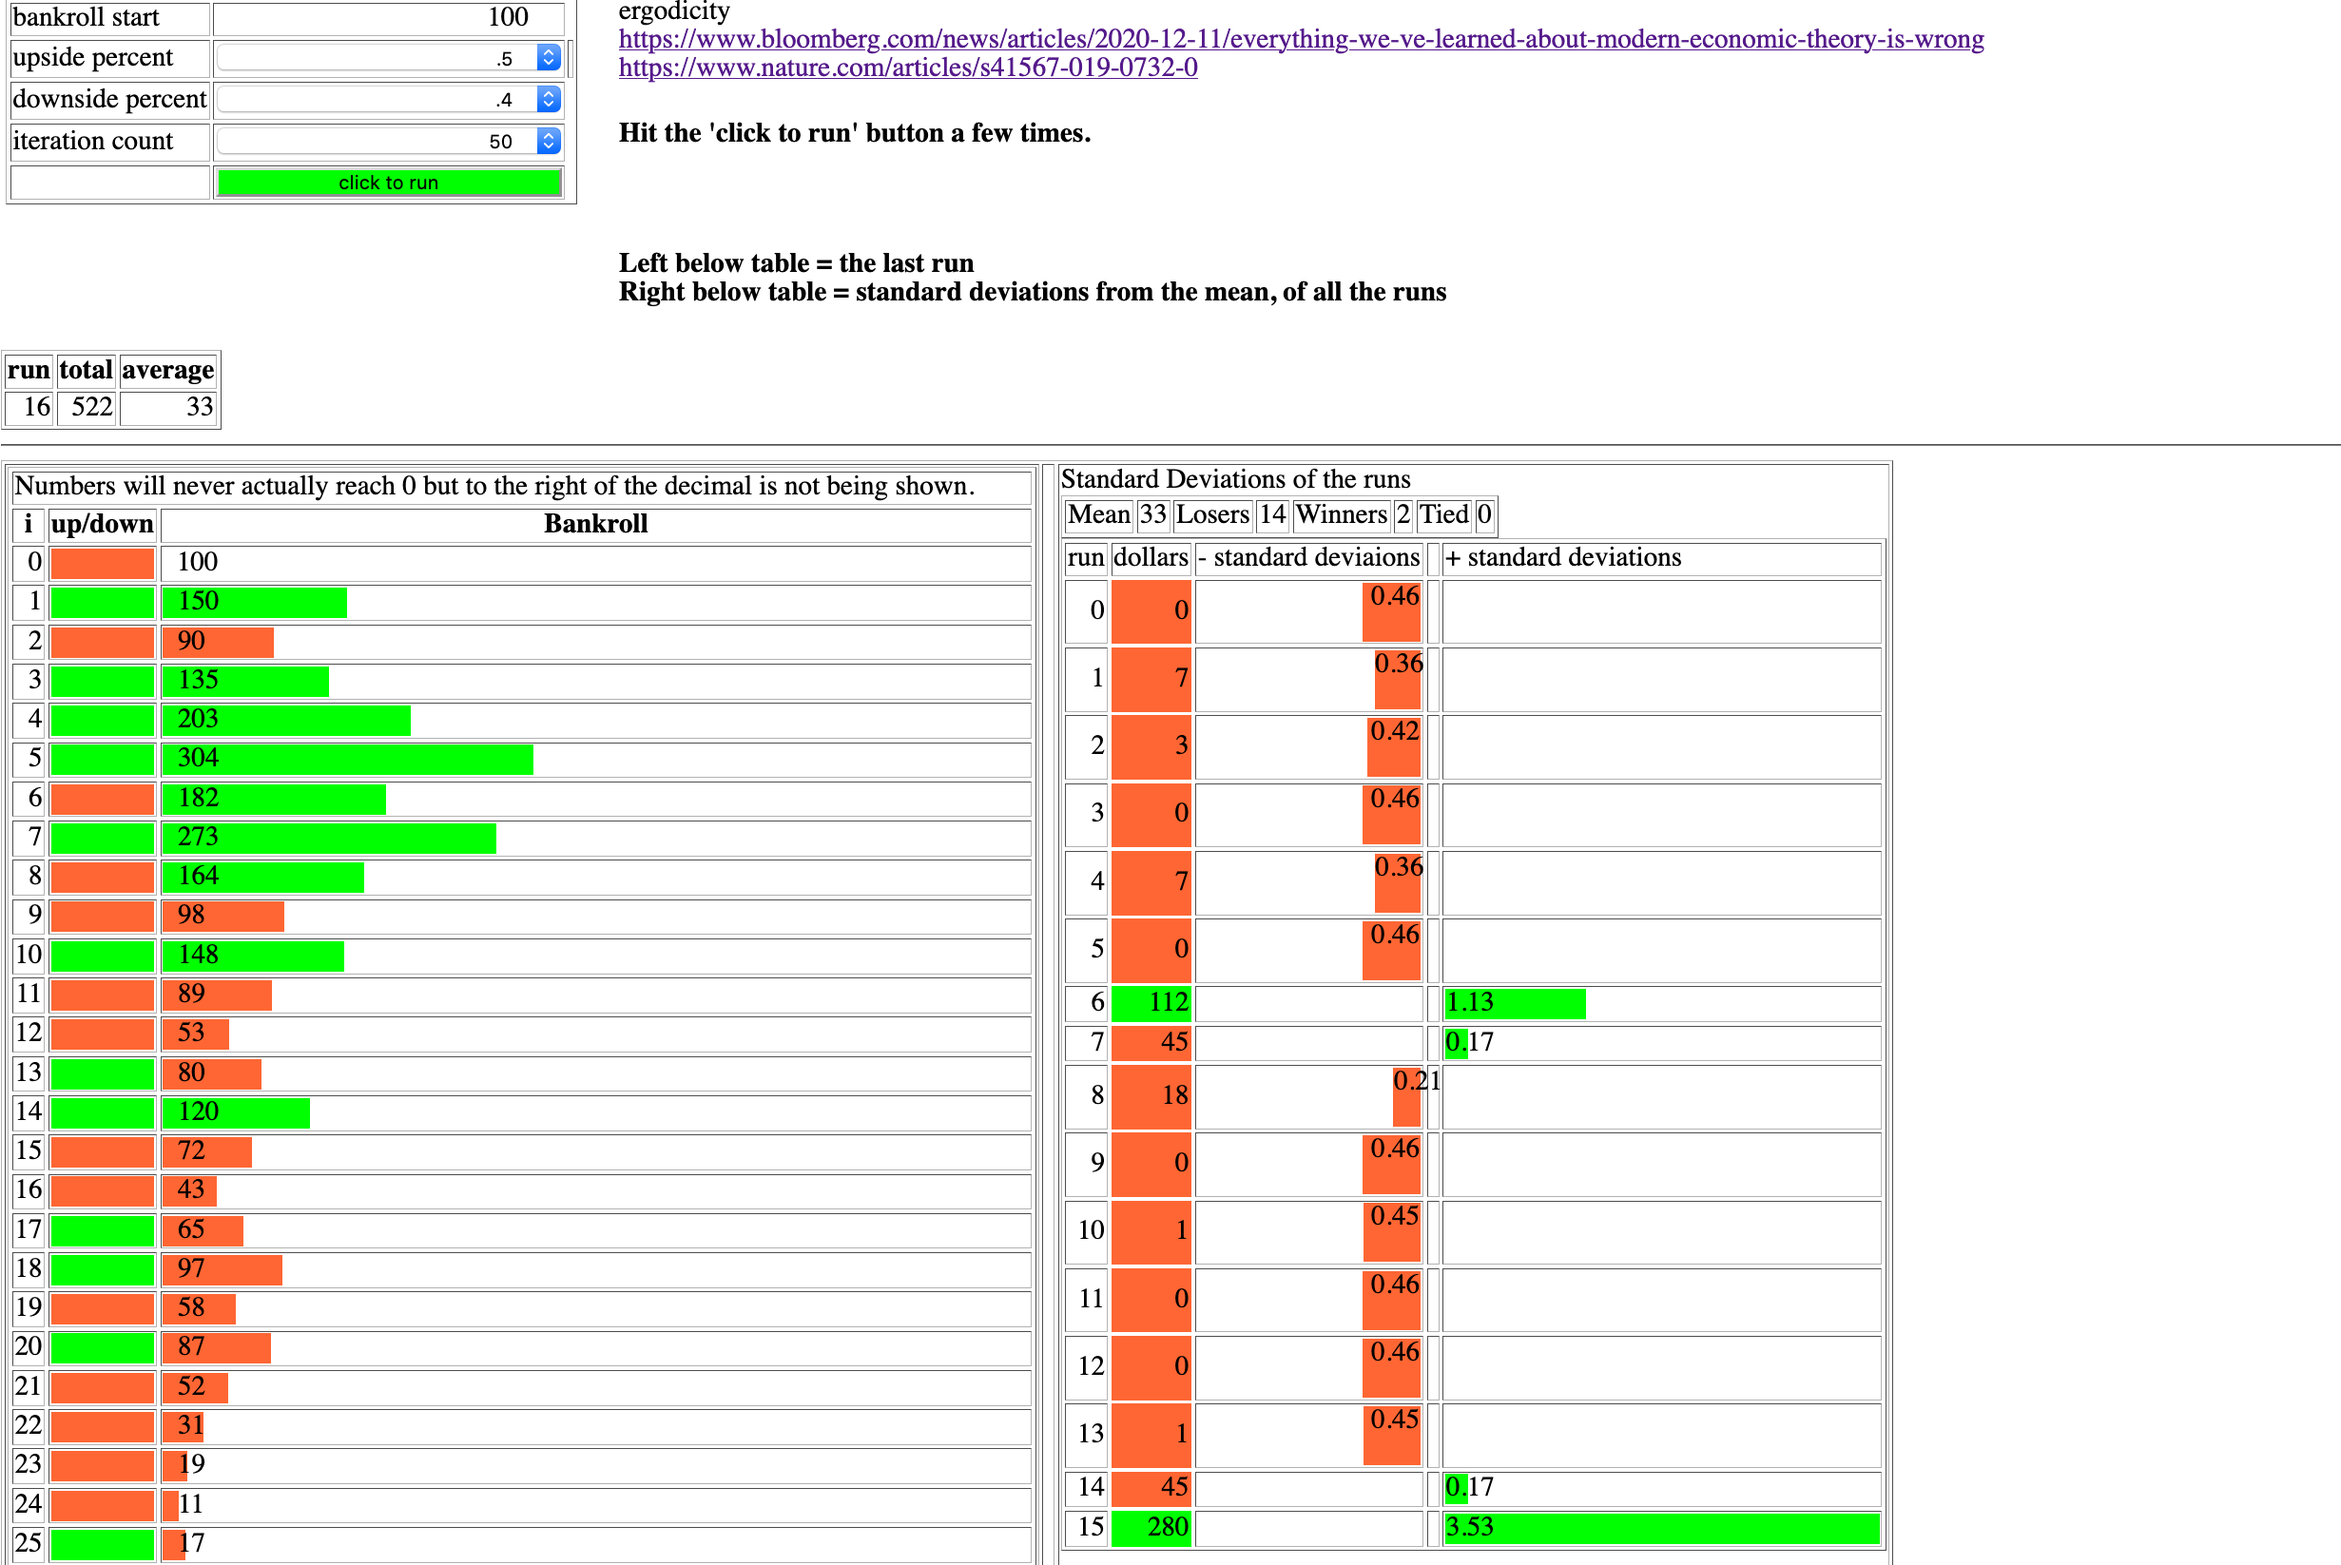
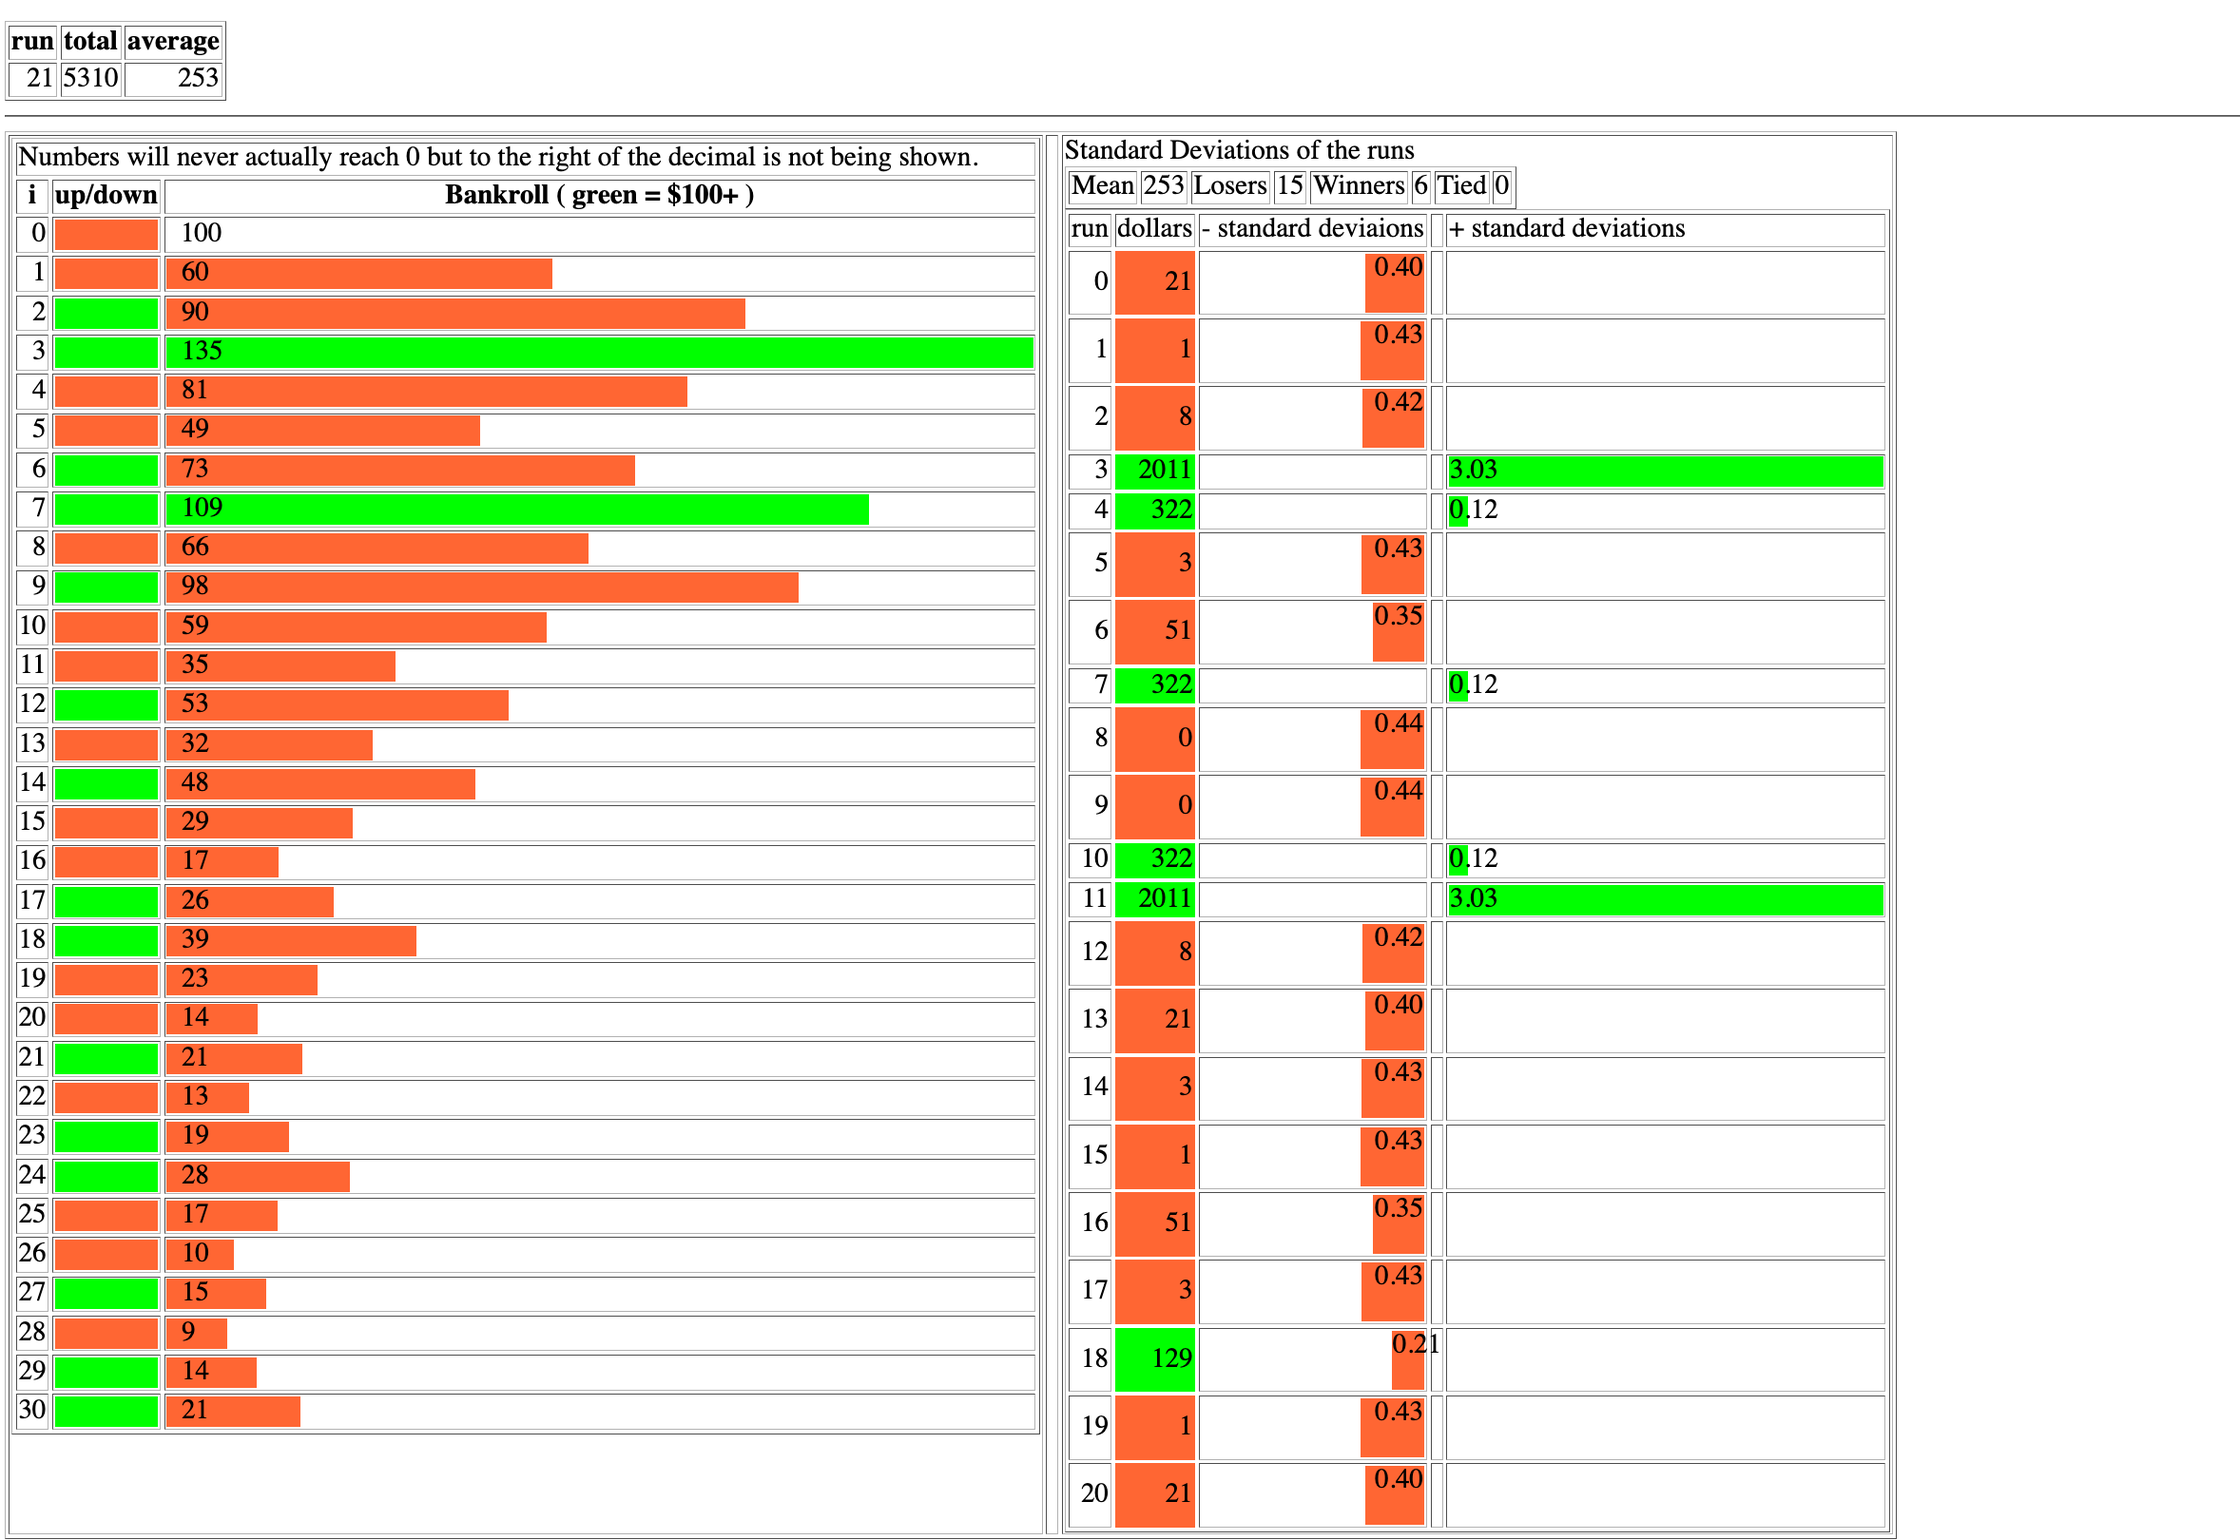
Clarity is hard

Changed region(s): [[0.0, 0.0, 0.8676, 1.0], [0.7746, 0.7716, 0.8366, 0.8642]]

diff --git a/logic.js b/logic.js
@@ -207,7 +207,7 @@ const makeThisRunGUI = (results, most) => {
          	<tr>
                  <th>i</th>
                  <th>up/down</th>
-         		<th>Bankroll</th>
+         		<th>Bankroll ( green = $100+ )</th>
          	</tr>`
 
     results.forEach((item, i) => {
